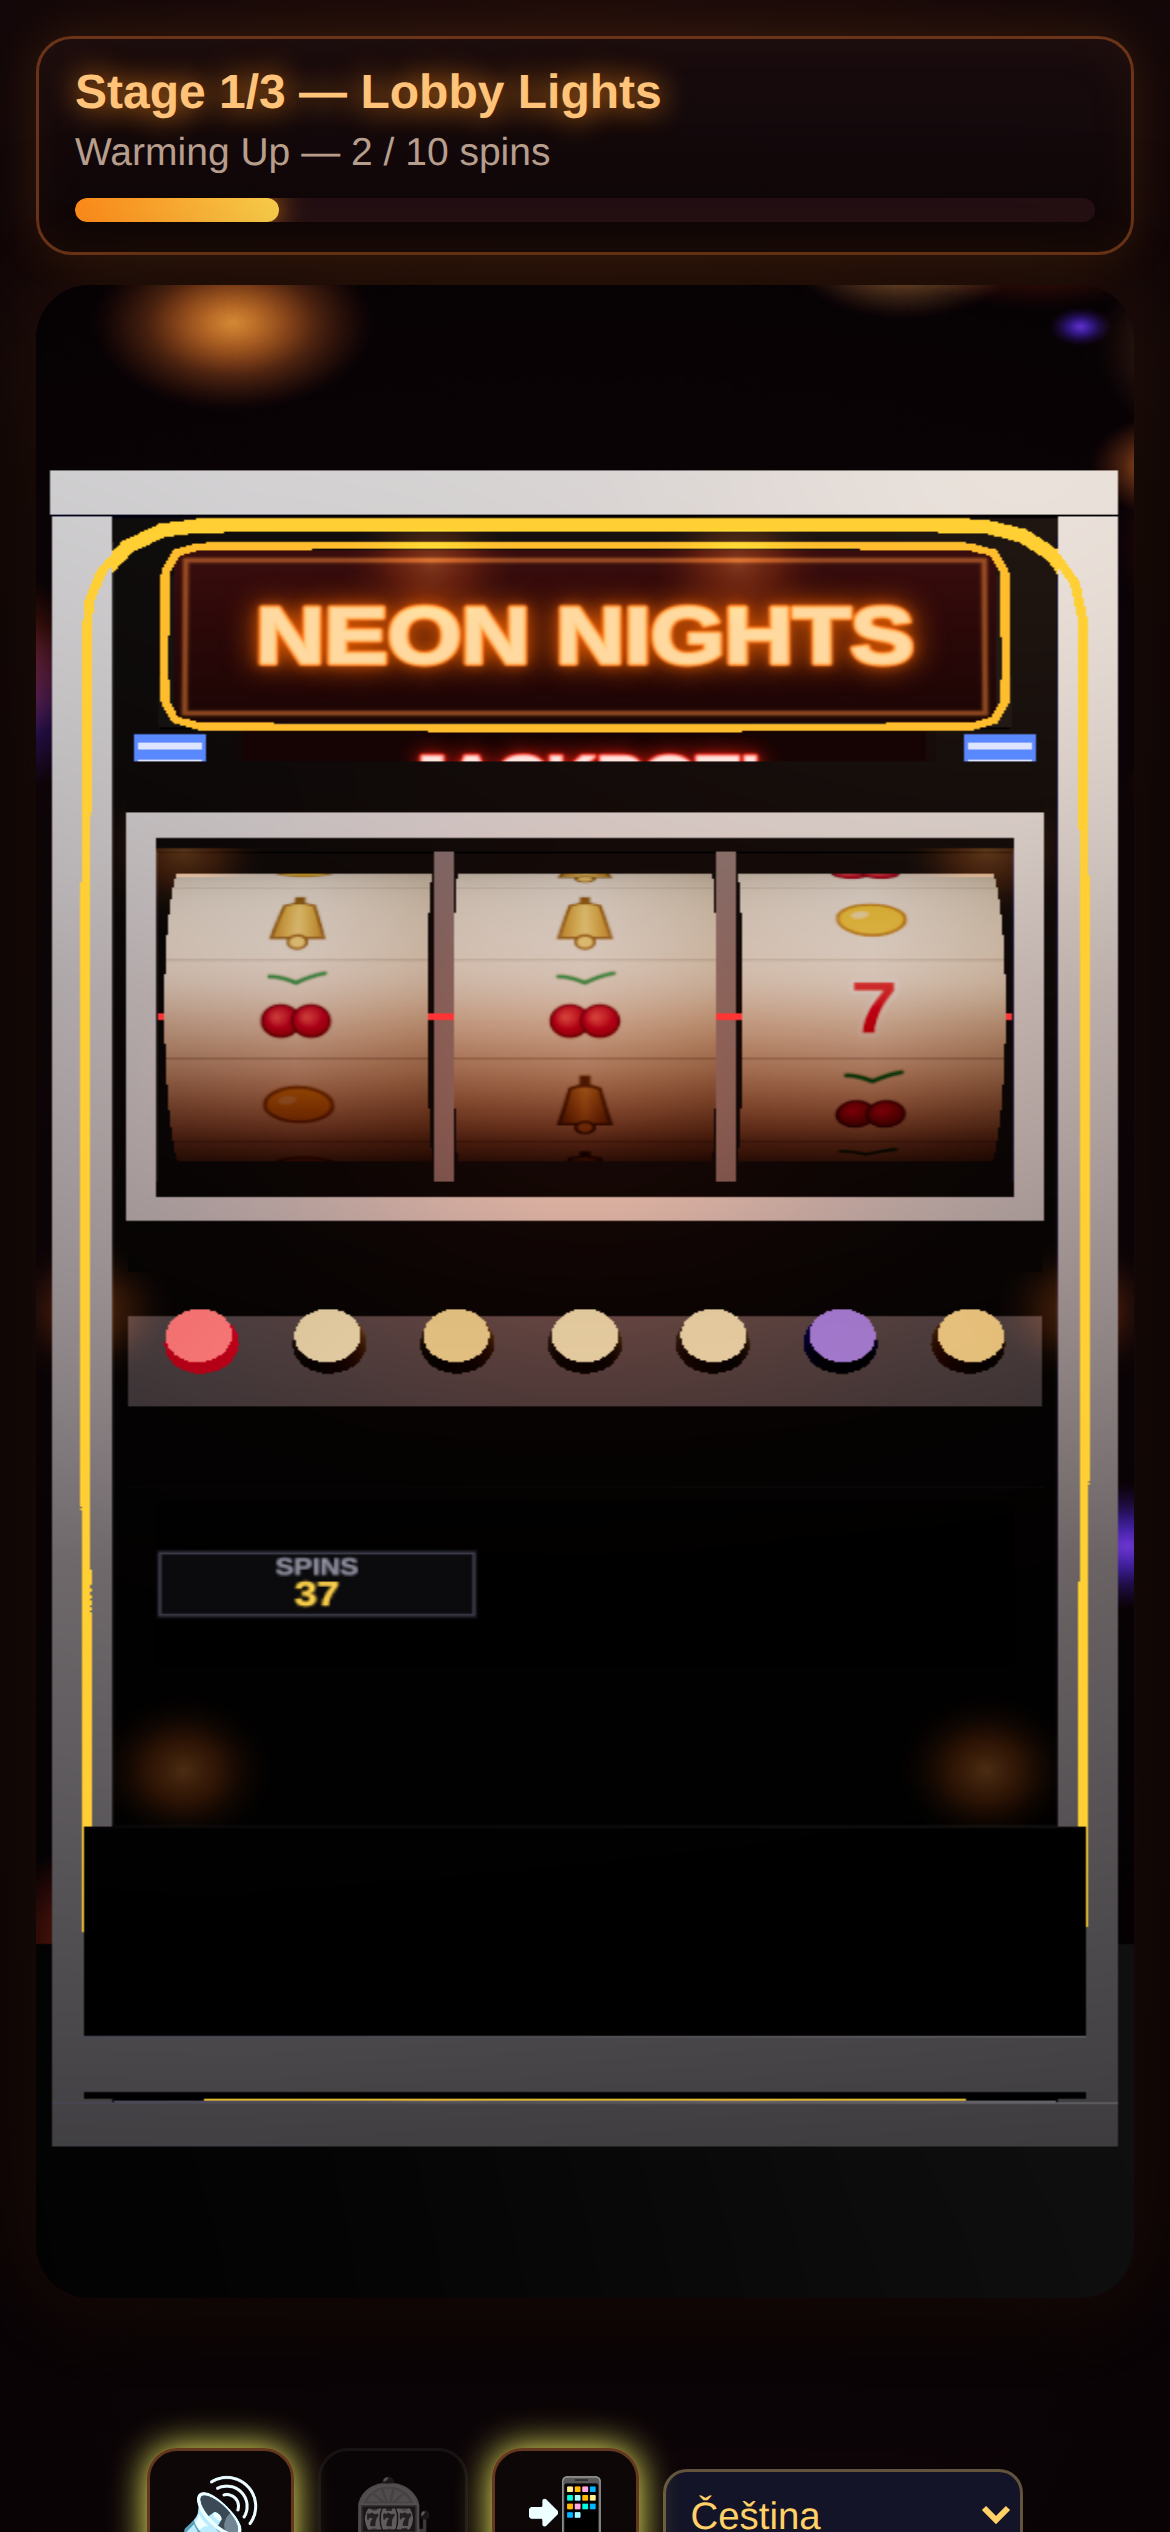
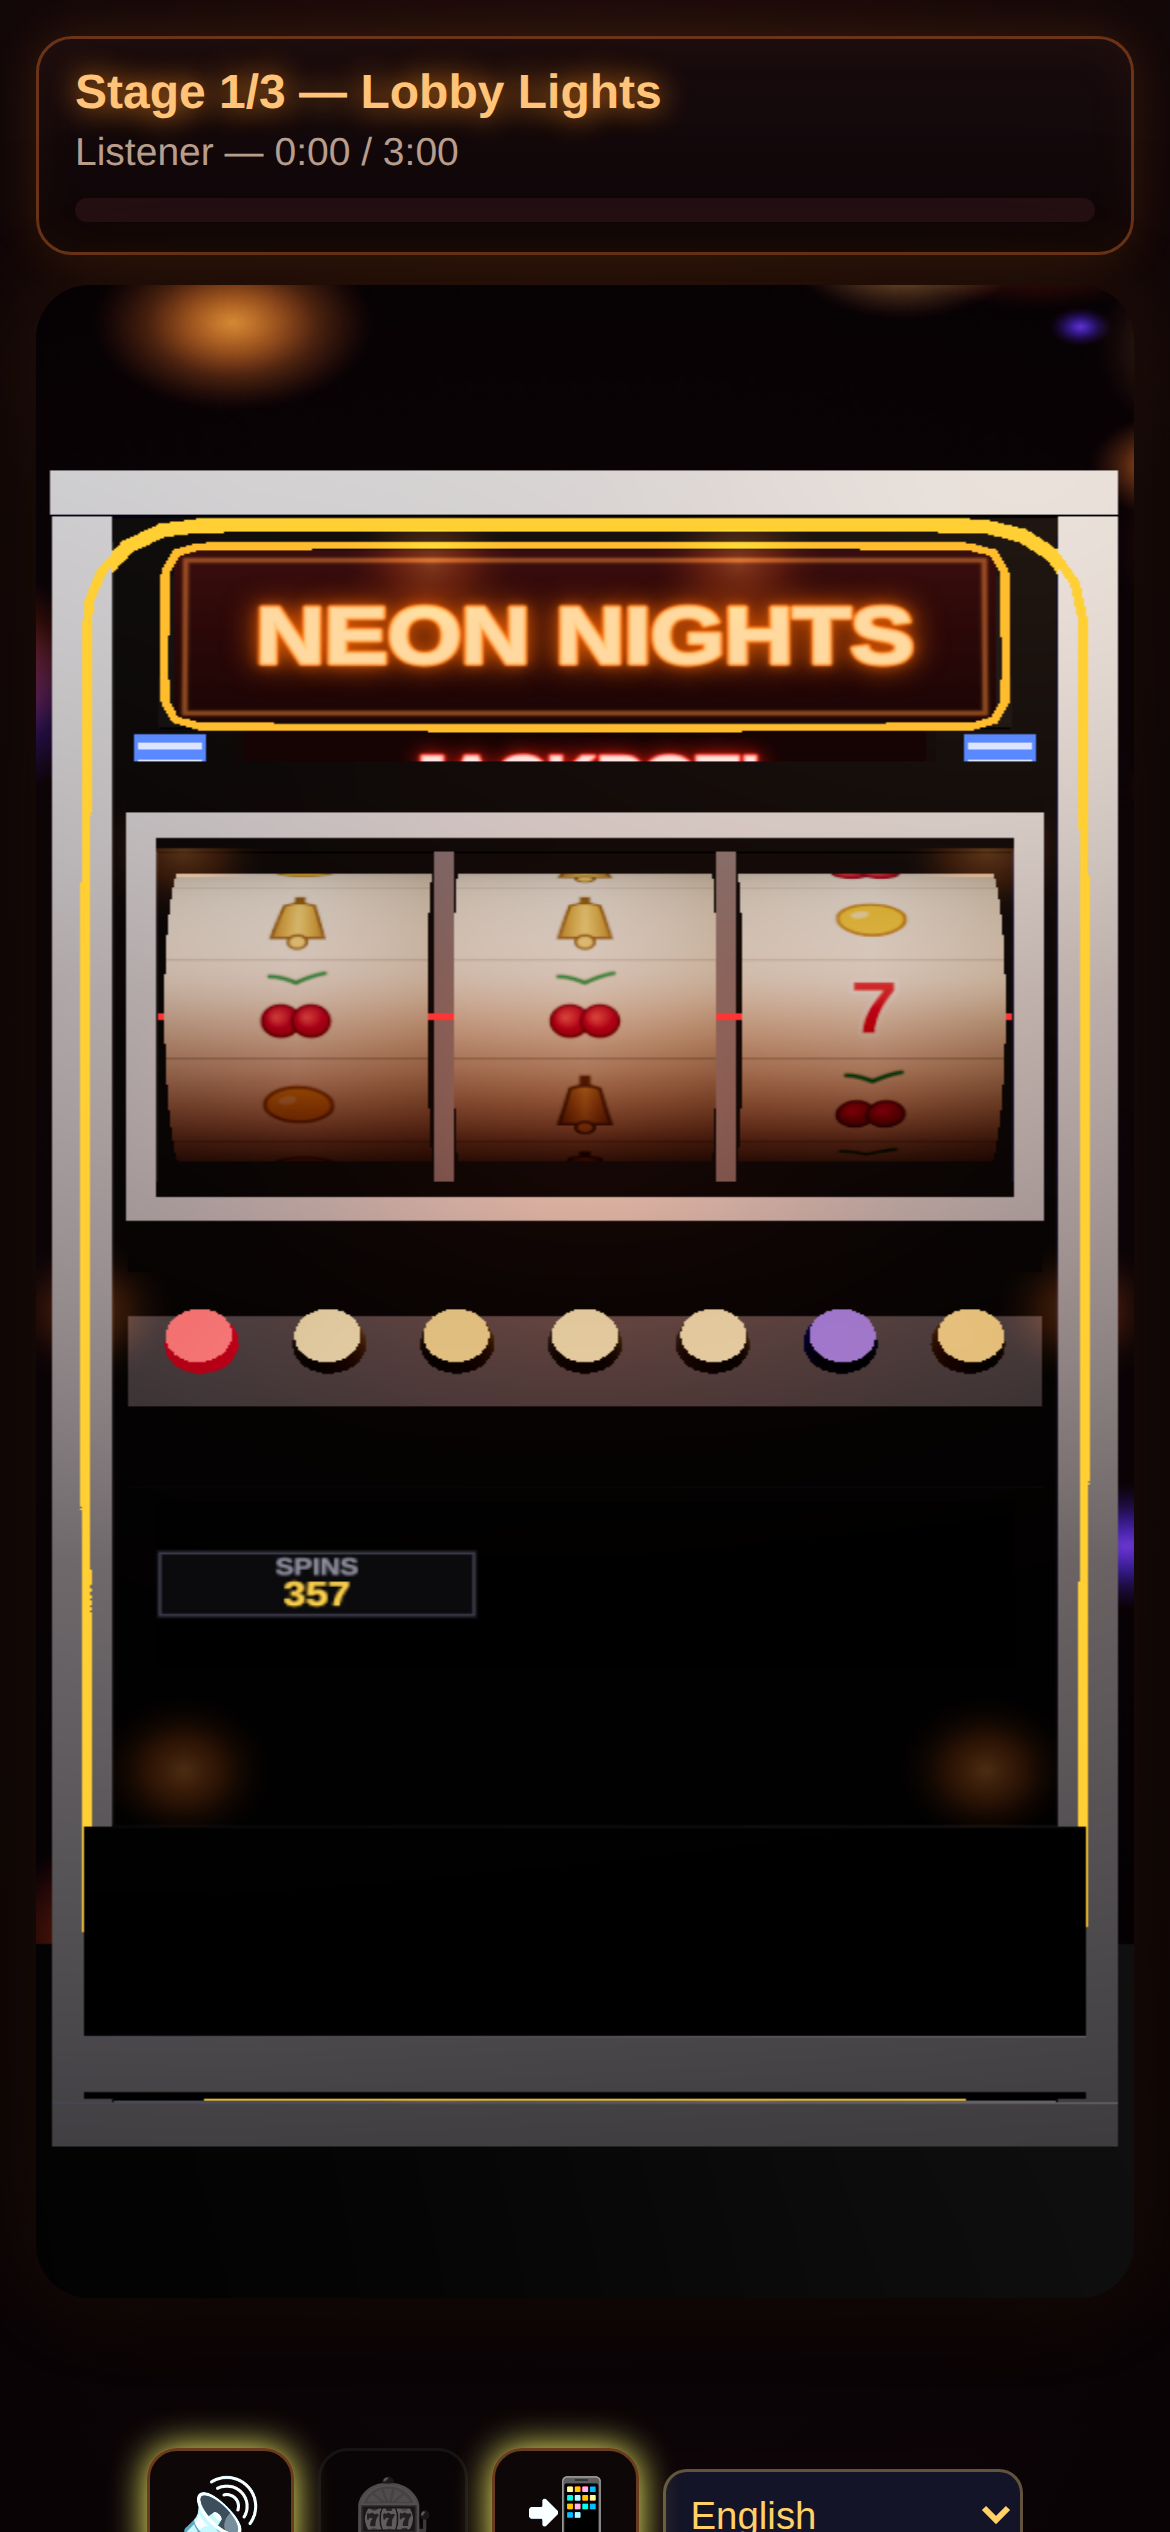
nn777-v5: fix rim identifier collision (boot); single green SPIN button, 41-language label

diff --git a/cabinet3d.js b/cabinet3d.js
@@ -465,14 +465,14 @@ function makeWebGLCabinet() {
     // blue/purple illuminated rim (emissive over the 1.0 bloom threshold)
     const rimShape = roundedRectShape(BTN.w + 0.24, BTN.h + 0.24, BTN.corner + 0.10);
     rimShape.holes.push(traceRoundedRect(new THREE.Path(), BTN.w + 0.08, BTN.h + 0.08, BTN.corner + 0.03));
-    const rim = new THREE.Mesh(
+    const rimRing = new THREE.Mesh(
       new THREE.ExtrudeGeometry(rimShape, { depth: 0.12, bevelEnabled: false, curveSegments: 16 }),
       new THREE.MeshStandardMaterial({
         color: 0x14142a, emissive: 0x5a5cff, emissiveIntensity: 1.6,
         roughness: 0.4, metalness: 0.2,
       }));
-    rim.position.z = -0.04;
-    spinGroup.add(rim);
+    rimRing.position.z = -0.04;
+    spinGroup.add(rimRing);
     // the green button itself (presses into the housing)
     const press = new THREE.Group();
     spinGroup.add(press);
@@ -490,7 +490,9 @@ function makeWebGLCabinet() {
     S.spinLabelText = spinLabelFor(currentLang(), window.NN_I18N || {});
     S.spinLabelTex = spinLabelTexture(S.spinLabelText);
     S.spinLabelMat = new THREE.MeshBasicMaterial({ map: S.spinLabelTex, transparent: true, toneMapped: false });
-    const label = new THREE.Mesh(new THREE.PlaneGeometry(BTN.w * 0.94, BTN.h * 0.66), S.spinLabelMat);
+    const label = new THREE.Mesh(
+      new THREE.PlaneGeometry(BTN.w * 0.94, BTN.w * 0.94 * 0.375), // same 1024x384 aspect — no distortion
+      S.spinLabelMat);
     label.position.z = 0.02 + BTN.depth + 0.045 + 0.006;
     press.add(label);
     S.spinBtn = btn; S.spinLabel = label; S.spinPress = press;
